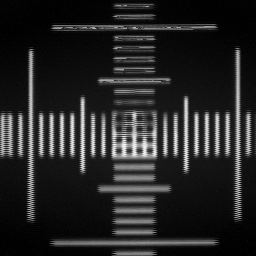
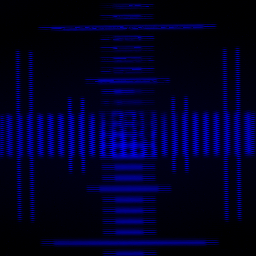
ciam.py: Se agrego funcion girar()

diff --git a/ciam.py b/ciam.py
@@ -24,9 +24,9 @@ def normalizar(data):
 
 #Transformacion del arreglo unidimensional a bidimencional
 def transformarR1R2(data):
-    contRow=0
+    #contRow=0
     matrixB = np.empty((256, 256))
-    aux = np.empty((1, 255))
+    #aux = np.empty((1, 255))
     matrixB=np.reshape(data,(-1,256))
     return matrixB
 
@@ -41,17 +41,16 @@ def transformarR2R3(matrixB):
 
 #Código para girar las filas impares
 def girar(matrixB):
-    turn=False
-    aux = np.empty((1, 255))
-    for i in range(256):
-        for j in range(256):
-            if (j==255):
-                    if(turn==True):
-                            for k in range(255):
-                                    aux[k]=data[i][k]
-                            for l in range(255):
-                                    data[i][l]=aux[l]
-        not(turn)
+	turn=False
+	aux = np.empty((256))
+	for i in range(256):
+		if(turn==True):
+			for k in range(256):
+				aux[k]=matrixB[i][k]
+			for l in range(256):
+				matrixB[i][l]=aux[-(l+1)]
+		turn=not(turn)
+	return matrixB
 
 #Codigo para crear la imagen a partir de una matriz R3
 def crearImagen(imagen):

diff --git a/prueba.py b/prueba.py
@@ -1,18 +1,17 @@
 import numpy as np
 data = np.array([[1,2,3],[4,5,6],[7,8,9]])
 print(data)
+
 def girar(data):
-    turn=True
-    aux = np.empty((1, 3))
-    for i in range(3):
-        for j in range(3):
-            if (j==2):
-                if(turn==True):
-                    for k in range(3):
-                        aux[k]=data[i][k]
-                    for l in range(3):
-                        data[i][l]=aux[l]
-                not(turn)
-                print(turn)
+	turn=False
+	aux = np.empty((3))
+	for i in range(3):
+		if(turn==True):
+			for k in range(3):
+				aux[k]=data[i][k]
+			for l in range(3):
+				data[i][l]=aux[-(l+1)]
+		turn=not(turn)
+		
 girar(data)
 print(data)
